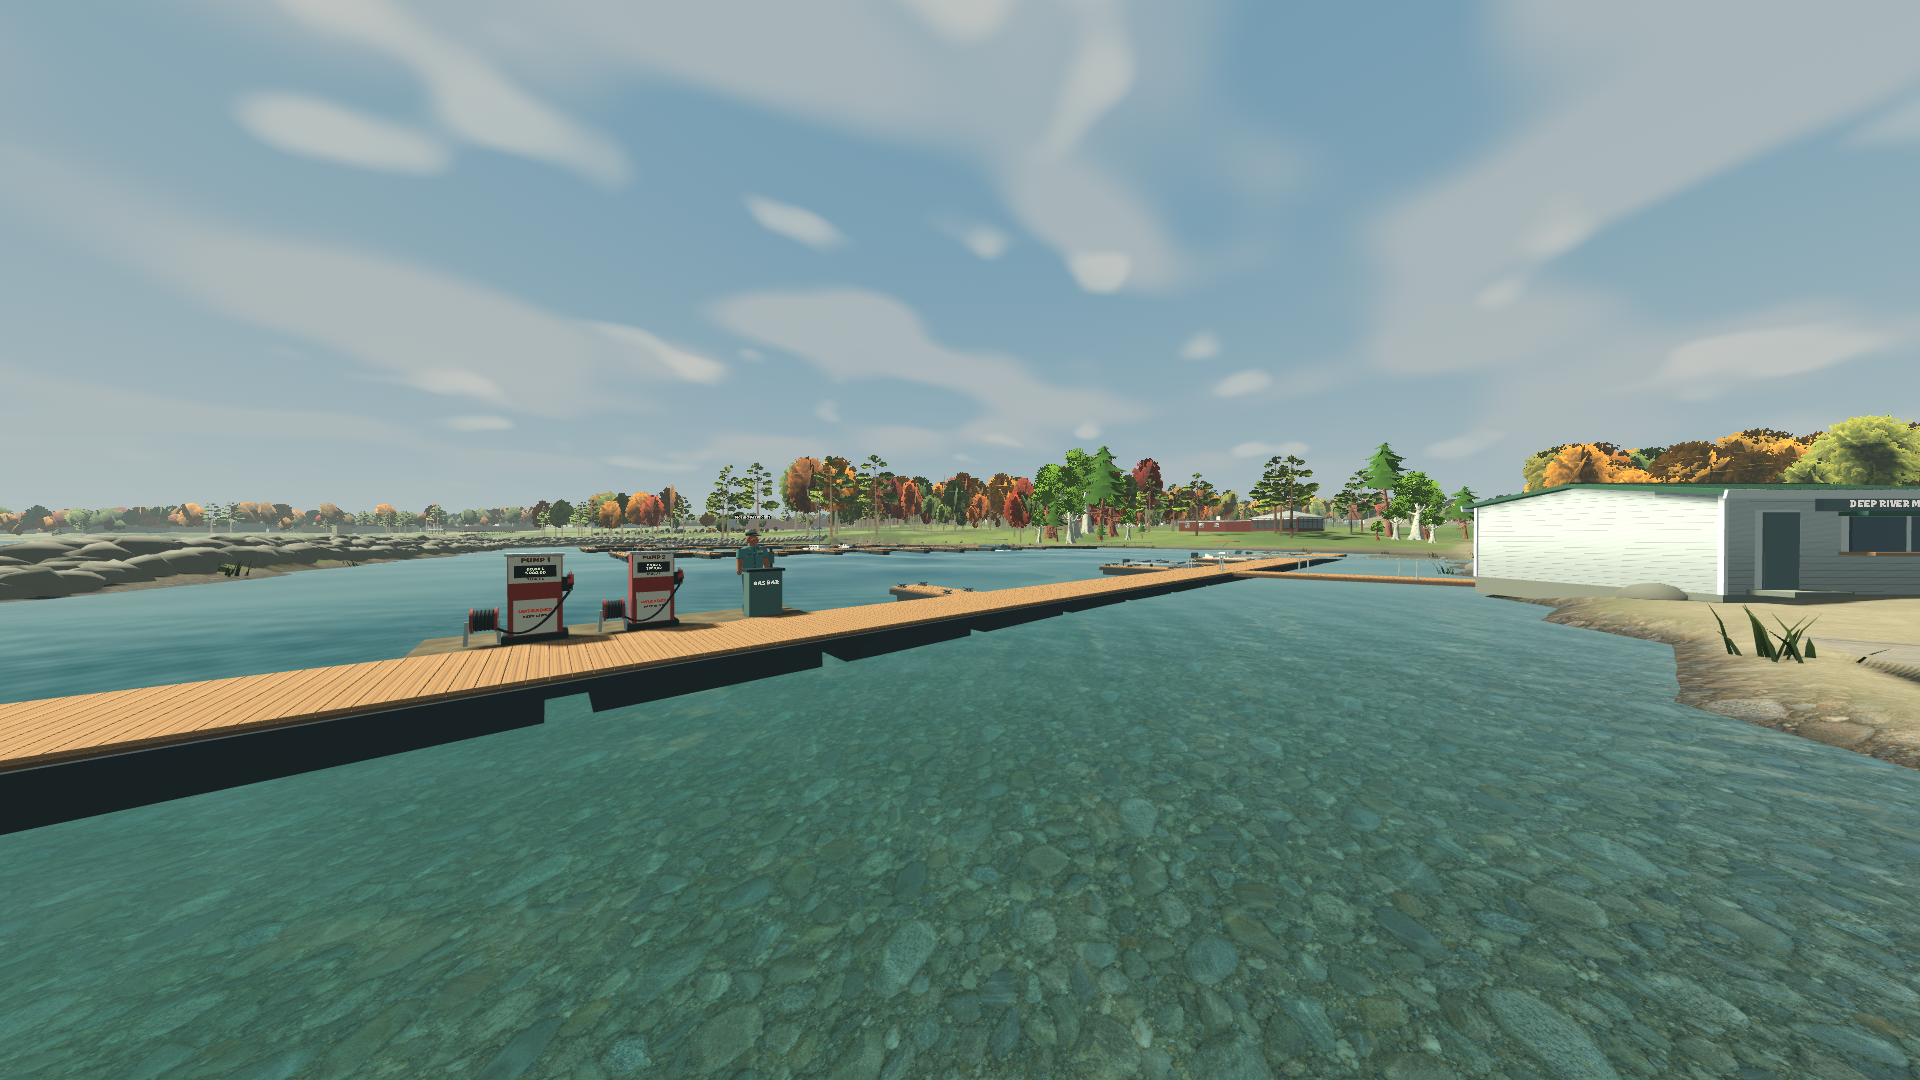
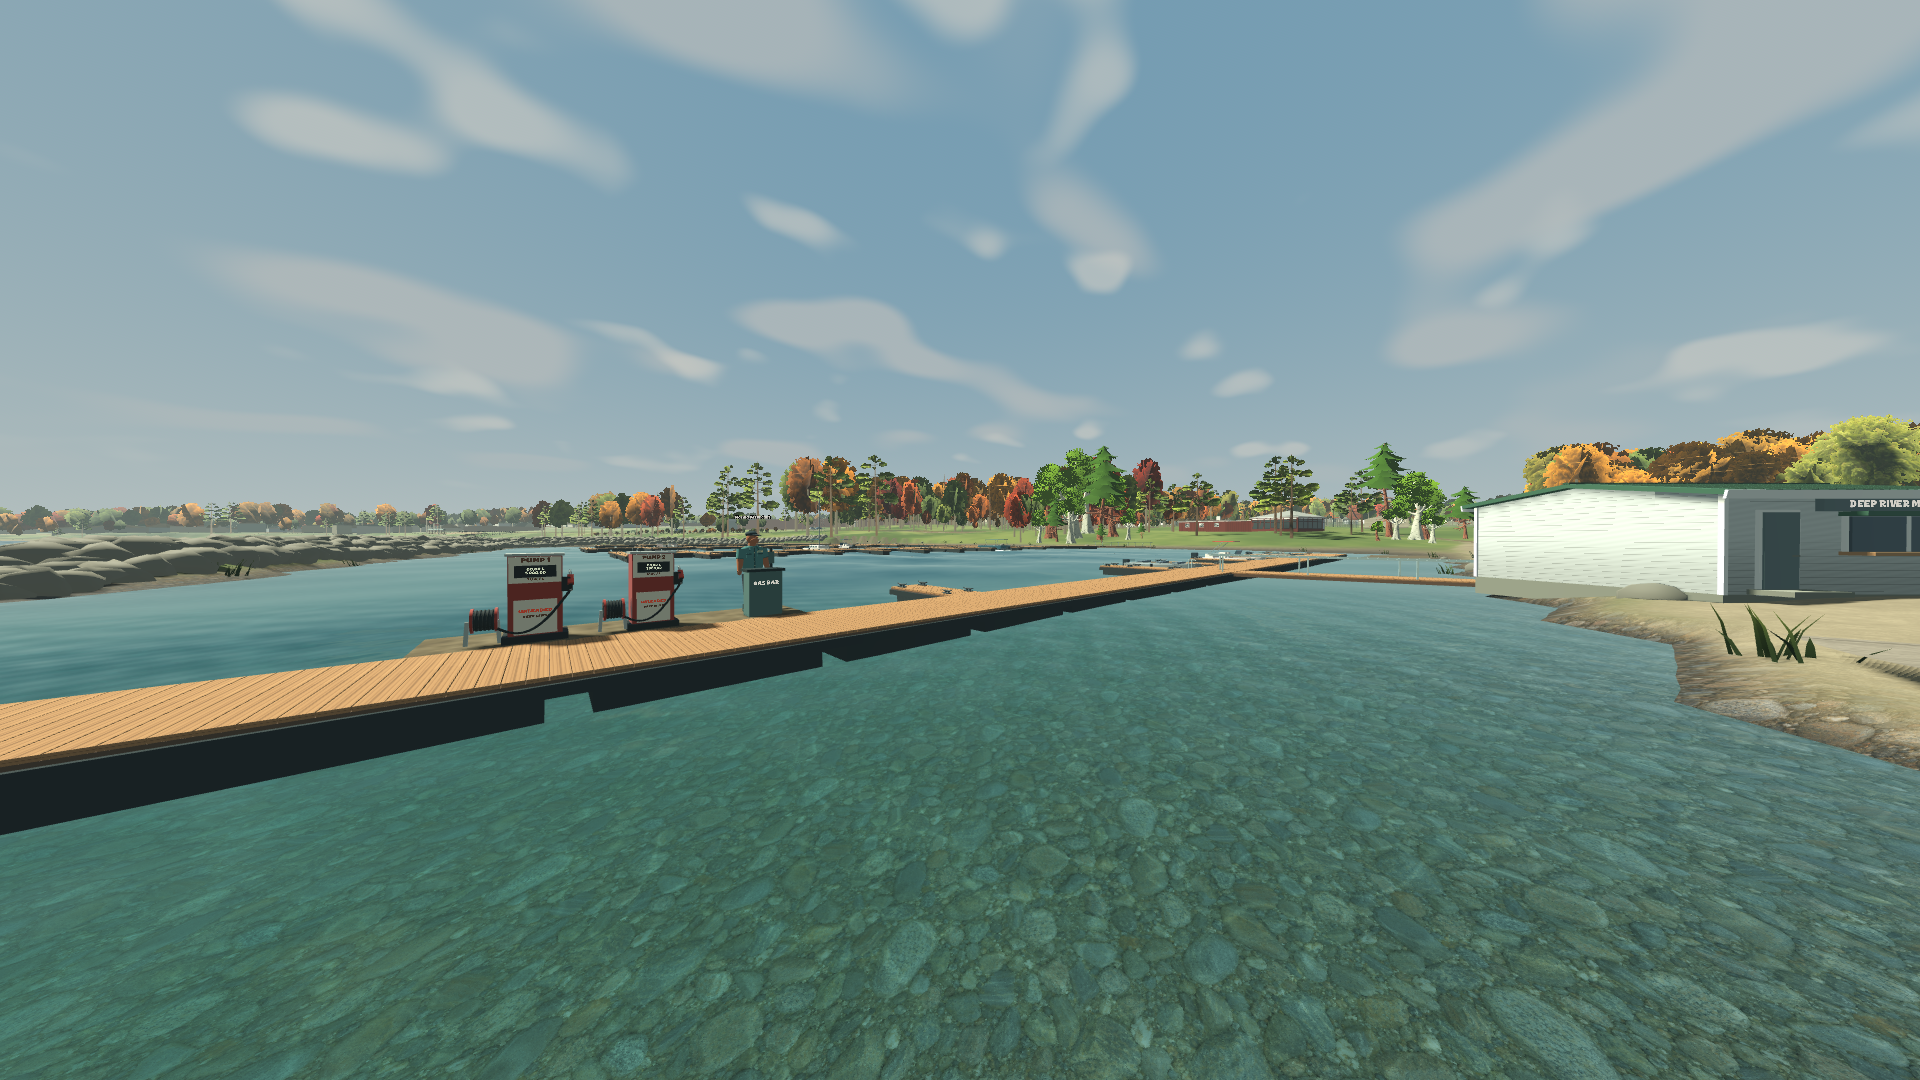
Recheck Riverside visuals after weather merge and trim shader cost

diff --git a/docs/systems/RIVERSIDE-POC.md b/docs/systems/RIVERSIDE-POC.md
@@ -6,7 +6,7 @@ Issue #132 tests a stylized Canadian riverside direction in the existing Deep Ri
 
 The original marina uses surveyed tree positions but presents nearby crowns mostly through foliage cards. The terrain, sky, water, and dock materials already have substantial shader logic. Mowing relies on the original `park_grass` MultiMesh and exact indices in `grass_transforms`; changing its instance order would break cut and regrow behavior. These source relationships, rather than a terrain or physics defect, explain the limited visual density and set the boundary for this change.
 
-The opt-in profile adds curated CC0 Quaternius tree meshes at surveyed marina canopy positions, local shrubs and flowers, and chunked procedural grass clumps. Natural ground cover avoids the mowing routes, paths, docks, playground sand, and pavilion. A separate blade batch follows each existing mowable tuft's index so trimming and regrowth remain tied to gameplay state. The existing graphics presets control the distance and density of added batches. The opt-in sky palette/clouds, mapped marina water, ground, and timber use the existing day cycle and water shaders. The regional map and water physics are unchanged. Shader and asset provenance is in [the asset manifest](../../godot-cove/third_party/quaternius_nature/MANIFEST.md).
+The opt-in profile adds curated CC0 Quaternius tree meshes at surveyed marina canopy positions, local shrubs and flowers, and chunked procedural grass clumps. Natural ground cover avoids the mowing routes, paths, docks, playground sand, and pavilion. A separate blade batch follows each existing mowable tuft's index so trimming and regrowth remain tied to gameplay state. The existing graphics presets control the distance and density of added batches. The opt-in sky palette/clouds, mapped marina water, ground, and timber use the existing day cycle and water shaders. The regional map and water physics are unchanged. The merged weather system applies after the Riverside daytime palette; storm cloud coverage suppresses the added cloud layer and rainfall softens the Riverside water colour treatment. Shader and asset provenance is in [the asset manifest](../../godot-cove/third_party/quaternius_nature/MANIFEST.md).
 
 The experiment is geographically focused near the pavilion. Terrain colour fades from 125 to 170 m and mapped water from 175 to 280 m. Sky and lighting are shared world systems and switch when the local camera crosses a 240 m radius; this can produce a visible transition and warrants human review. The tree models are a visual treatment of surveyed positions, not a precise species survey.
 
@@ -16,17 +16,17 @@ Run `godot --path godot-cove --rendering-method gl_compatibility --script res://
 
 For 720p Performance pass `--preset=performance --capture-resolution=720` after `--`. The capture script temporarily disables a locally saved fullscreen preference and sets the window to 1280 × 720; both the script's earlier resize and Godot's startup `--resolution` option were overridden by that preference. Check the `CAPTURE` dimensions printed in the log. For each view, the script samples 300 frames after a short settle, reports median and 95th percentile wall time between rendered frames and draw calls, then checks mower index identity, cut, regrow, and profile deactivation outside the marina. This is a single stationary-camera run, not the requested three 30-second moving samples; it includes desktop scheduling and can show outliers. It does not provide a separate GPU timer or measure VRAM. See the draft PR for the measured results and test gaps.
 
-The local 1080p Balanced run used Godot 4.7.2, OpenGL Compatibility 3.3, NVIDIA GTX 1050, driver 582.66, and the same saved VSync preference for both profiles. Values below are median / p95 milliseconds; draw calls are original → profile.
+The final local 1080p Balanced run was repeated on the branch rebased onto `f7cc233`. It used Godot 4.7.2, OpenGL Compatibility 3.3, NVIDIA GTX 1050, driver 582.66, and the same saved VSync preference for both profiles. Values below are median / p95 milliseconds; draw calls are original → profile. An earlier pass showed a boat-view median over 20% slower; after removing redundant water/cloud noise samples, a fresh matched run showed a 5.3% median increase there. The large p95 variation still calls for moving-camera playtesting.
 
 | View | Original | Riverside | Draw calls |
 | --- | ---: | ---: | ---: |
-| Public wharf | 20.86 / 49.67 | 18.02 / 45.52 | 3968 → 4005 |
-| Marina park | 12.62 / 27.45 | 12.92 / 34.77 | 2829 → 2889 |
-| Boat viewpoint | 15.84 / 39.15 | 17.33 / 33.77 | 4230 → 4268 |
-| Golden hour | 21.70 / 44.28 | 23.24 / 45.93 | 5310 → 5371 |
-| Night marina | 17.45 / 43.57 | 18.37 / 33.69 | 4105 → 4157 |
+| Public wharf | 19.11 / 44.83 | 19.36 / 40.86 | 3968 → 4005 |
+| Marina park | 13.25 / 26.50 | 13.71 / 31.36 | 2829 → 2889 |
+| Boat viewpoint | 16.53 / 36.39 | 17.41 / 45.05 | 4230 → 4268 |
+| Golden hour | 22.31 / 54.89 | 23.16 / 56.30 | 5310 → 5371 |
+| Night marina | 18.32 / 44.64 | 19.02 / 47.81 | 4105 → 4157 |
 
-The matched 720p Performance pass used the same engine, renderer, and GPU. Values are again median / p95 milliseconds. VSync remained enabled from the local preference, so this is a frame pacing comparison rather than an uncapped GPU throughput test.
+The matched 720p Performance pass used the same engine, renderer, and GPU, but was recorded against the task's original base (`a9ff38b`) before weather PR #127 merged. It is retained as an indicative lower-preset comparison; the 1080p Balanced pair was repeated after the rebase. Values are again median / p95 milliseconds. VSync remained enabled from the local preference, so this is a frame pacing comparison rather than an uncapped GPU throughput test.
 
 | View | Original | Riverside | Draw calls |
 | --- | ---: | ---: | ---: |
